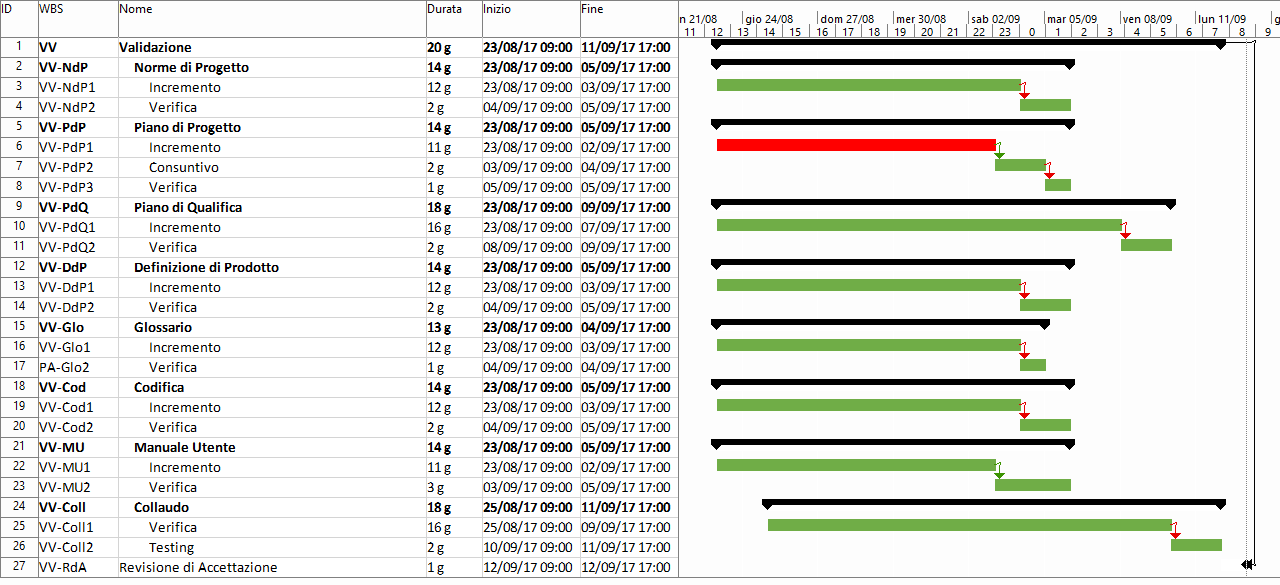
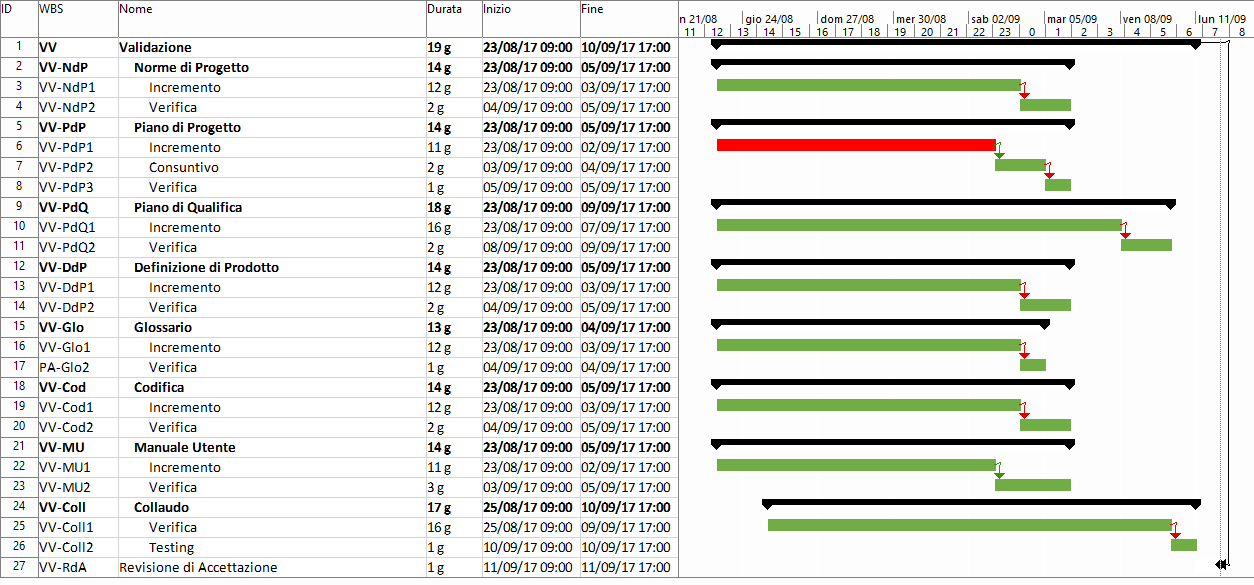
mod date

diff --git a/3-RQ/Esterni/PdP/contenuto.tex b/3-RQ/Esterni/PdP/contenuto.tex
@@ -83,7 +83,6 @@ il dialogo con il cliente.
 \end{itemize}
 
 
-
 \subsection{Scadenze}
 
 Il gruppo Obelix ha deciso di rispettare le seguenti scadenze:
@@ -93,7 +92,7 @@ Il gruppo Obelix ha deciso di rispettare le seguenti scadenze:
 \item Revisione dei Requisiti: 2017-04-18
 \item Revisione di Progettazione: 2017-06-20
 \item Revisione di Qualifica: 2017-08-29
-\item Revisione di Accettazione: 2017-09-12
+\item Revisione di Accettazione: 2017-09-11
 
 \end{itemize}
 
@@ -527,7 +526,7 @@ In questa fase i ruoli maggiormente coinvolti sono:  \emph{Amministratore} ,  \e
   \captionof{figure}{Diagramma di Gantt relativo al periodo di Validazione}
 \end{center}
 
-Periodo: da 2017-08-23 a 2017-09-12 \\
+Periodo: da 2017-08-23 a 2017-09-11 \\
 Il periodo di Validazione inizia dopo quello di Codifica e si conclude con la Revisione
 di Accettazione.
 L'obbiettivo di questo periodo è quello di effettuare tutti i test necessari per garantire
